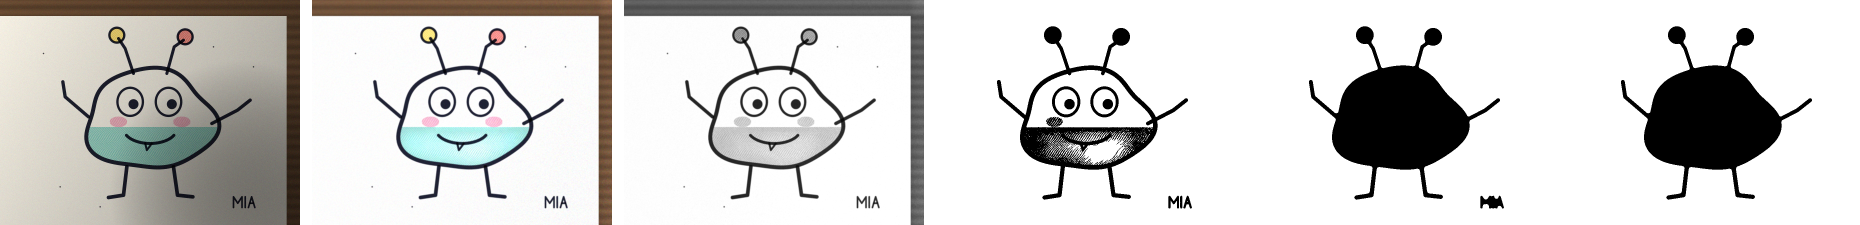
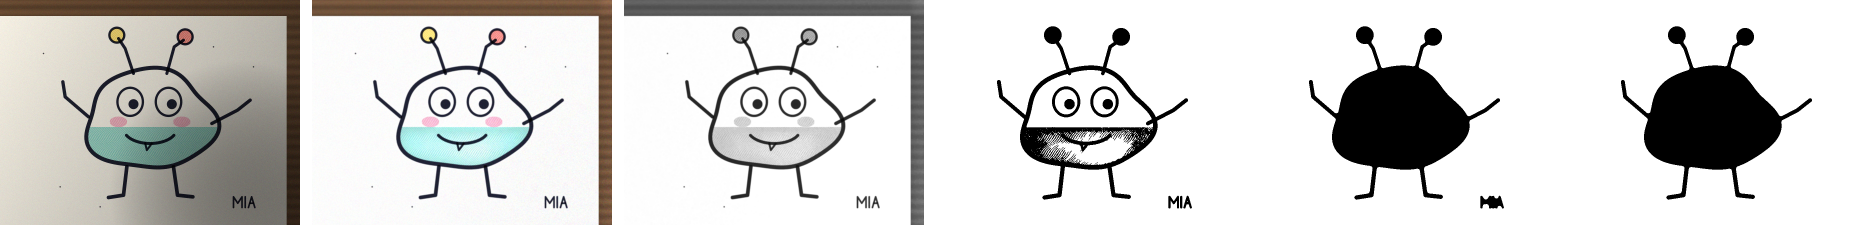
doodle-cutout: README and examples for the edge and ruled-paper fixes
- How it works: the paper estimate uses the scored copy (and why), ruled-line
  removal, cutting away what surrounds the sheet instead of dropping whatever
  touches the edge, the coarse paper repair; timings re-measured.
- Limitations rewritten: strokes touching the table or photo edge are now trimmed
  and kept; ruled/squared paper works; what still fails (outline cut open by the
  photo edge, thick crayon at the edge, dense light pencil, heavy grids, a sheet's
  shadow on a wide table attached to legs drawn to the paper's edge).
- New example: a creature on lined notebook paper on a table, legs drawn to the
  paper's edge. Other examples regenerated (shapes unchanged).
- Option docs for backgroundRadius and removeBorderBlobs updated to match.

Changed region(s): [[0.5613, 0.5289, 0.6237, 0.7467]]

diff --git a/packages/doodle-cutout/scripts/demo.ts b/packages/doodle-cutout/scripts/demo.ts
@@ -69,6 +69,32 @@ function blobPhoto(): RGBAImage {
     .render({shadow: 0.45, angle: 2.4, noise: 0.02, seed: 5});
 }
 
+/** The hard case: lined notebook paper on a table, the sheet's shadow, and legs drawn right down to the paper's edge. */
+function ruledPhoto(): RGBAImage {
+  const W = 600;
+  const H = 800;
+  const sheet = {x: 34, y: 40, w: 530, h: 728}; // bottom edge at y = 768
+  const s = new Scene(W, H);
+  for (let y = sheet.y + 34; y < sheet.y + sheet.h; y += 24) s.stroke([[sheet.x, y], [sheet.x + sheet.w, y]], 1.6, [0.55, 0.72, 0.92]);
+  s.stroke([[sheet.x + 56, sheet.y], [sheet.x + 56, sheet.y + sheet.h]], 1.6, [0.92, 0.55, 0.55]);
+  s.table(sheet, [0.42, 0.3, 0.2]).stroke([[567, 46], [567, 771], [40, 771]], 7, [0.5, 0.5, 0.5]);
+  const cx = 300;
+  const cy = 330;
+  const body: [number, number][] = [];
+  for (let i = 0; i <= 100; i++) {
+    const t = (i / 100) * Math.PI * 2;
+    const R = 150 * (1 + 0.06 * Math.sin(4 * t + 0.7));
+    body.push([cx + R * Math.cos(t), cy + R * Math.sin(t) * 1.1]);
+  }
+  s.fill((x, y) => Math.hypot(x - cx, (y - cy) / 1.1) < 128 && y > cy + 30, [cx - 140, cy, cx + 140, cy + 160], PINK, 0.75, 8);
+  s.stroke(body, 10);
+  s.stroke([[cx - 60, cy + 160], [cx - 70, 766]], 10).stroke([[cx + 60, cy + 160], [cx + 72, 766]], 10); // legs to the edge
+  s.stroke([[cx - 160, cy], [cx - 220, cy - 70]], 9).stroke([[cx + 160, cy], [cx + 225, cy - 60]], 9);
+  for (const ex of [cx - 50, cx + 50]) s.strokeEllipse(ex, cy - 50, 26, 30, 6).disc(ex + 6, cy - 45, 11);
+  s.stroke([[cx - 55, cy + 40], [cx, cy + 75], [cx + 55, cy + 40]], 8);
+  return s.render({shadow: 0.4, angle: 0.8, blobShadow: 0.3, noise: 0.02, seed: 21});
+}
+
 /** Box-downscale by an integer factor. */
 function shrink(img: RGBAImage, f: number): RGBAImage {
   const w = Math.floor(img.width / f);
@@ -142,7 +168,7 @@ const save = (name: string, img: RGBAImage) => {
   console.log(`  examples/${name}  ${img.width}x${img.height}`);
 };
 
-for (const [name, photo] of [['monster', monsterPhoto()], ['crayon-blob', blobPhoto()]] as const) {
+for (const [name, photo] of [['monster', monsterPhoto()], ['crayon-blob', blobPhoto()], ['ruled', ruledPhoto()]] as const) {
   const t0 = performance.now();
   const plain = cutout(photo, {debug: true});
   const ms = performance.now() - t0;

diff --git a/packages/doodle-cutout/src/cutout.ts b/packages/doodle-cutout/src/cutout.ts
@@ -28,7 +28,10 @@ export interface ImageLike {
 export interface CutoutOptions {
   /** Longest side of the working image; larger inputs are area-downscaled first. Default 1024. */
   maxSize?: number;
-  /** Radius (working px) of the paper/lighting estimate. Must exceed your thickest stroke. Default 12% of the long side. */
+  /**
+   * Radius (working px) of the paper/lighting estimate. Must exceed your thickest stroke. Also how far ink touching
+   * the photo edge or the table must reach into the photo to count as drawing. Default 12% of the long side.
+   */
   backgroundRadius?: number;
   /** Ink score threshold 0..1, or 'auto' (Otsu, clamped to 0.12..0.4 and above the paper noise). Default 'auto'. */
   threshold?: number | 'auto';
@@ -40,7 +43,7 @@ export interface CutoutOptions {
   closeRadius?: number;
   /** Make regions enclosed by an outline solid. Default true. */
   fillHoles?: boolean;
-  /** Drop ink touching the photo edge (table, fingers, paper edge), unless that would leave nothing. Default true. */
+  /** Cut away what surrounds the sheet (table, fingers, the paper's edge and shadow), unless that would leave nothing. Default true. */
   removeBorderBlobs?: boolean;
   /** Keep the largest shape plus any shape at least this fraction of its area. Default 0.15. */
   keepRatio?: number;
@@ -323,8 +326,9 @@ const to255 = (m: Mask) => m.map((v) => (v ? 255 : 0));
  * Cut a drawing out of a photo of paper. Returns an RGBA sprite of the drawing on transparency.
  *
  * Pipeline: downscale -> paper/lighting estimate (grayscale closing) -> flatten -> ink score
- * (darkness + colourfulness) -> hysteresis threshold -> drop specks and edge blobs -> close gaps
- * -> fill enclosed regions -> keep main shapes -> recolour, soft edge, optional sticker outline.
+ * (darkness + colourfulness, minus ruled lines) -> hysteresis threshold -> drop specks and what
+ * surrounds the sheet -> close gaps -> fill enclosed regions -> keep main shapes -> recolour, soft
+ * edge, optional sticker outline.
  */
 export function cutout(img: ImageLike, options: CutoutOptions = {}): CutoutResult {
   const {width: W, height: H, data} = img;

diff --git a/packages/doodle-cutout/README.md b/packages/doodle-cutout/README.md
@@ -90,29 +90,44 @@ await sharp(Buffer.from(r.data), {raw: {width: r.width, height: r.height, channe
    than the paper that is narrower than the window, which is all the ink, and keeps the lighting. Two closings are
    combined: a flat square one, exact on hard steps like the table edge, and a paraboloid "rolling ball", exact on soft
    round shadows. Both only ever overestimate, so the lower one wins. Both run in O(n) whatever the radius (a monotonic
-   deque, and the lower-envelope-of-parabolas trick from the Felzenszwalb–Huttenlocher distance transform).
+   deque, and the lower-envelope-of-parabolas trick from the Felzenszwalb–Huttenlocher distance transform). The
+   paraboloid only follows soft shadows, so it runs at half size. The estimate is taken from the same lightly denoised
+   copy that is scored next: a blurrier estimate is too bright on the dark side of a hard step, which draws a 1 px
+   "ink" line round a sheet lying on a dark table, and step 7 would fill the whole sheet.
 3. **Flatten and score.** Dividing by the paper estimate turns the paper white, shadows included. Each pixel's ink
    score is the larger of its darkness, its colourfulness against the local paper and its saturation against the
    page's white balance (so yellow crayon counts, and so do coloured areas too big for step 2). The sensor noise is
    measured from the photo, and the score is reduced where a dark background would amplify it.
+   **Ruled and squared paper:** printed lines are thin, faint, and reach even the empty parts of the sheet, while a
+   drawing does not. A white top-hat (what a small opening removes) isolates thin structures; the level they reach in
+   the emptiest tenth of the sheet's tiles (capped at 0.4, so dark pen always survives) is taken off thin structures
+   only. The lines vanish; thick ink and strokes darker than the lines stay.
 4. **Threshold** with Otsu, clamped and kept above the paper noise floor, using *hysteresis*: faint crayon touching
    confident ink is kept, isolated grain is not.
-5. **Clean up.** Drop specks, and drop ink touching the photo edge (table, fingers, the paper's edge) unless that
-   would leave nothing.
+5. **Cut away what surrounds the sheet.** Thick ink touching the photo edge (a strip of table, a cloth, fingers) is
+   removed pixel by pixel, together with whatever is joined to it or to the photo edge within a small margin (the
+   paper's edge and its shadow). A leg drawn down to the paper's edge is trimmed there instead of taking the whole
+   creature with it. Leftovers touching the cut must reach `backgroundRadius` into the photo to count as drawing, so a
+   margin line or a strip of shadow goes. On a table too wide to be ink, the shadow the sheet casts is thin ink just
+   off a sharp step down in the paper estimate; parts lying mostly there lose those pixels. Specks go too. If nothing is
+   left, everything is kept.
 6. **Close gaps** with a disk-shaped morphological closing (exact Euclidean distance transform), so an outline with a
    small gap still counts as closed.
 7. **Fill holes.** Flood-fill the background from the image border; whatever it cannot reach is enclosed by the
    drawing and becomes solid. This turns an outline into a sticker.
 8. **Keep the main shapes**: the largest one plus any at least `keepRatio` of its size (the signature and crumbs go).
 9. **Compose the sprite.** Colours come from the photo divided by the paper colour *interpolated from around the
-   drawing* (normalised convolution), so big crayon areas keep their colour. Paper showing inside the drawing is
+   drawing* (normalised convolution on a 4x smaller grid, blending into a photo-wide window inside big drawings), so
+   big crayon areas keep their colour. Paper showing inside the drawing is
    whitened, ink gets a small saturation boost, the edge gets a 1-2 px soft alpha, and an optional white sticker
    outline is added with a distance transform.
 
-On an Apple-silicon laptop a 900×675 photo takes about 0.35 s in Bun; a mid-range phone takes roughly 2-3× that,
-so run it in a worker.
+On an Apple-silicon laptop a 900×675 photo takes about 0.3 s in Bun, and a 4000×3000 one about 0.4 s (it is
+downscaled first); a mid-range phone takes roughly 2-3× that, so run it in a worker.
 
 ![A large red crayon area with a yellow patch, photographed with a strong shadow inside a dark table border, and its cutout](examples/crayon-blob-before-after.png)
+
+![A creature on lined notebook paper with a red margin, on a wooden table with the sheet's shadow, legs drawn down to the paper's edge, and its cutout: no lines, no table, legs kept](examples/ruled-before-after.png)
 
 ## Options
 
@@ -121,13 +136,13 @@ All sizes are in working-image pixels (after the downscale to `maxSize`).
 | Option | Default | What it does |
 |---|---|---|
 | `maxSize` | `1024` | Longest side of the working image. Larger photos are area-downscaled first. |
-| `backgroundRadius` | 12% of the long side | Window of the paper estimate. Must be wider than your thickest stroke. |
+| `backgroundRadius` | 12% of the long side | Window of the paper estimate. Must be wider than your thickest stroke. Also how far ink touching the photo edge or the table must reach into the photo to count as drawing. |
 | `threshold` | `'auto'` | Ink score threshold 0..1, or `'auto'` (Otsu clamped to 0.12-0.4, above the noise floor). |
 | `chromaWeight` | `0.9` | How much colourfulness counts as ink. |
 | `minSpeckArea` | 0.01% of the image (min 6) | Ink blobs smaller than this are dust. |
 | `closeRadius` | 0.7% of the long side (min 2) | Disk radius that bridges gaps in outlines (gaps up to about 2×). `0` disables. |
 | `fillHoles` | `true` | Make regions enclosed by an outline solid. |
-| `removeBorderBlobs` | `true` | Drop ink touching the photo edge unless nothing else is left. |
+| `removeBorderBlobs` | `true` | Cut away what surrounds the sheet (table, fingers, the paper's edge and shadow) unless nothing else is left. |
 | `keepRatio` | `0.15` | Keep the largest shape plus shapes at least this fraction of its area. |
 | `padding` | `4` | Transparent margin around the sprite. |
 | `feather` | `1.25` | Width of the soft alpha edge (0.5-2.5). |
@@ -152,19 +167,23 @@ All sizes are in working-image pixels (after the downscale to `maxSize`).
 
 - **Outlines must be (nearly) closed** to come out solid. Gaps up to about `2 × closeRadius` are bridged; an open
   "C" shape stays line art. Tell kids to "close the line".
-- **Drawings touching the photo edge** are treated like the table and dropped, unless nothing else is found. Leave a
-  margin.
+- **Drawings touching the photo edge or the table.** Strokes that run into the table or off the photo are trimmed
+  there and kept, but an outline cut open by the photo edge cannot be filled (it stays line art), and a thick crayon
+  area touching the edge is taken for table. Leave a margin.
 - **Very large solid dark areas** (a page coloured in with black crayon) can be mistaken for paper. Coloured areas
   of any size are fine; for black ones raise `backgroundRadius`.
-- **Light pencil** on white paper is faint by nature; a marker or crayon works far better.
-- Ruled school paper is fine (its faint lines stay below the hysteresis threshold), but dark, heavy grids can be
-  picked up as ink.
+- **Light pencil** on white paper is faint by nature; a marker or crayon works far better. A page covered edge to
+  edge in light pencil hatching looks like ruled paper and is lost.
+- **Ruled and squared paper** are fine, tilted or not. Lines darker than about a third of black (heavy grids) still
+  count as ink, and pencil as light as the lines goes with them.
+- **A sheet on a table wider than `backgroundRadius`:** a strong shadow the sheet casts on the table is removed when
+  it stands apart, but can stay attached to legs drawn right down to the paper's edge.
 - It finds *drawings on paper*. It is not a general background remover for photos of objects or people.
 
 ## Development
 
 ```sh
-bun test             # 25 tests on synthetic photos (shadows, noise, tables, gaps, specks, ruled paper...)
+bun test             # 37 tests on synthetic photos (shadows, noise, tables, gaps, specks, ruled paper...)
 bun scripts/demo.ts  # regenerates the images in examples/
 npm run build        # dist/ (ESM + .d.ts)
 ```
